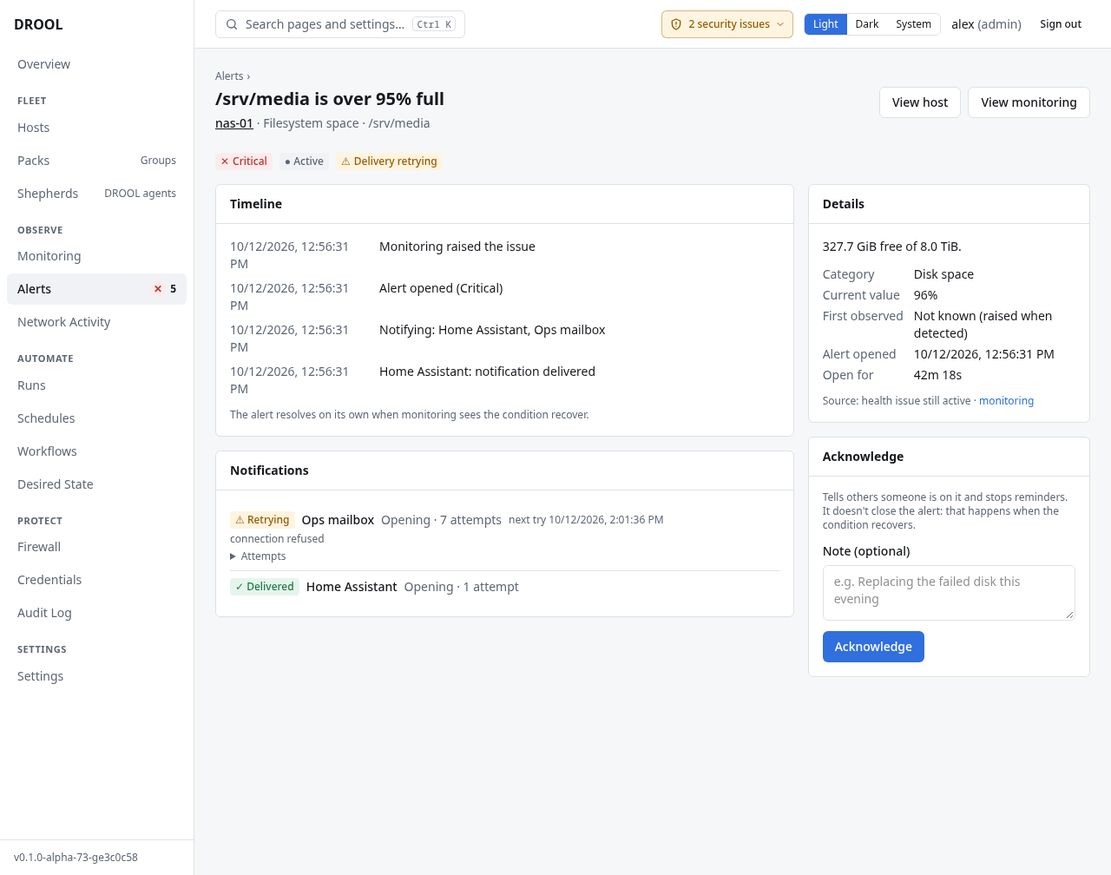
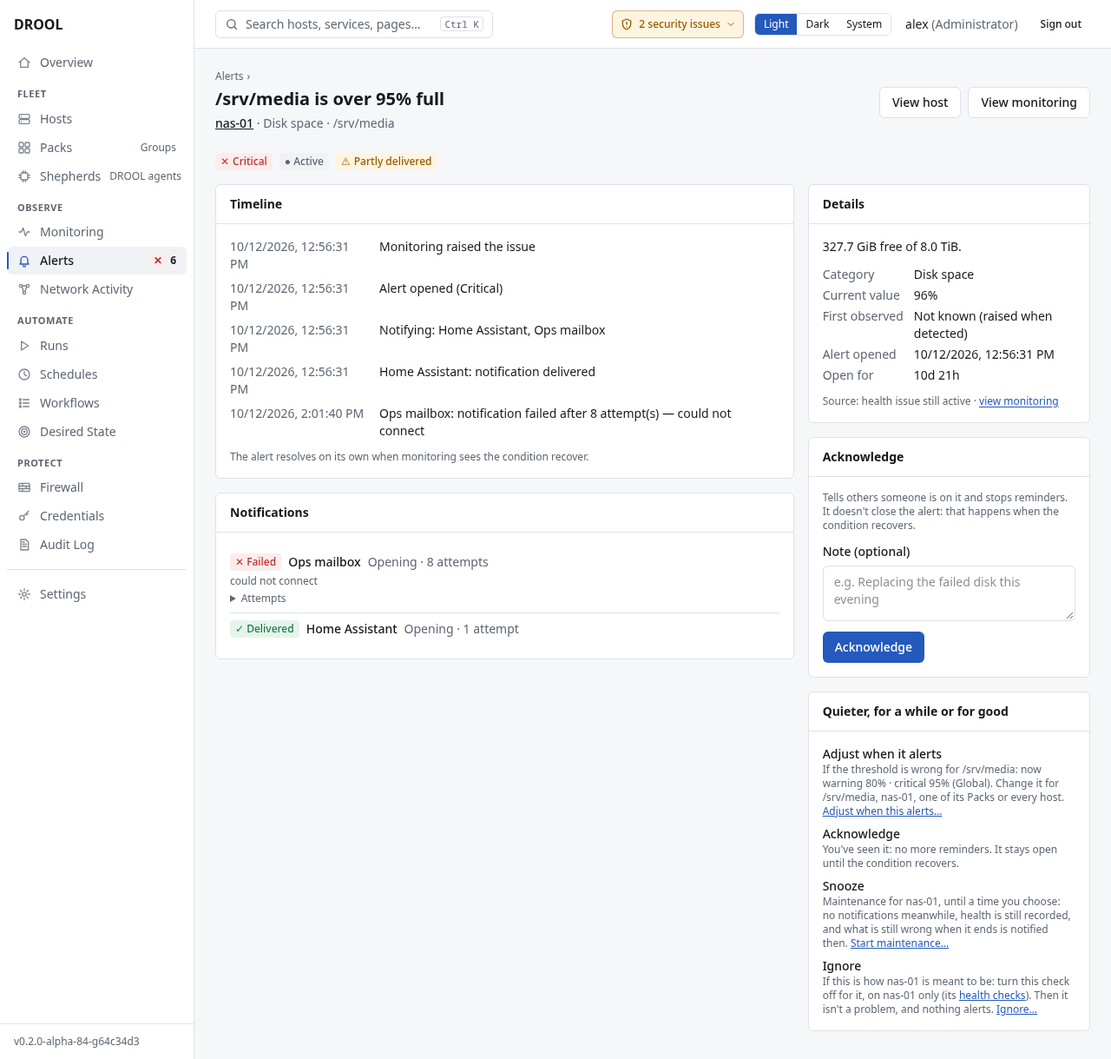
Docs: Phase 2 as built, measured and verified (ARCHITECTURE-ALPHA §47); the guide's screenshots retaken
- ARCHITECTURE-ALPHA §47: what Phase 2 changed (monitoring, Packs,
  dashboards and status, settings and words), what is recorded for Phase
  3, the workflows counted before and after from the capture records
  (W12a 7→5, W12d 11→5, W12e 7→4, W12f 11→6 with no priority to type,
  W14b 3→1; W13b 3→5 and W15 3→5 on purpose; W12b 7→7), the tests and
  the final verification, and what is still open.
- DESIGN-STANDARD §8: a page's rare destructive actions are in its
  Danger zone; a consequential choice is saved by a button that names it,
  never by a select's change.
- User guide: 18 screenshots retaken on the Phase 2 build (light,
  1280 px; Users at 1440) with their descriptions: the Overview (2),
  Packs (4), Monitoring (4), alerts (3), Users, the settings directory,
  maintenance, a Shepherd host's Management, and a host's Overview, now
  media-01's (host-page-media-01.png replaces host-page-web-01.png: web-01
  is off in the evidence lab). Removing a Host, Shepherd PKI and Host
  Details: Uninstall and Revoke are in the Danger zone, and the revoke
  button says Revoke identity. Two links to an anchor 35e0ec0 renamed.
  Not retaken (they need the docs lab's VMs, listed in §47.9): the first
  host page, and the host monitoring tabs' row.

Checks: the guide's link, anchor and image checker (162 pages). The
wiki is not published.

diff --git a/ARCHITECTURE-ALPHA.md b/ARCHITECTURE-ALPHA.md
@@ -4929,3 +4929,207 @@ The review of Phase 1 approved its direction and asked for six corrections, each
 - **Alerts browser test, a different failure seen once**: in one of 13 runs of the alerts file during the
   investigation, the first test's setup got a `GET /hosts` answer without `items` 2.4 s after signing in. It didn't
   recur with a debug log in place (the next 10 runs passed), so its cause isn't known.
+
+## 47. 1.0 usability refinement, Phase 2: organisation and clarity (2026-10-23)
+
+The second phase (*Simple by default. Powerful by choice.*), after Phase 1 was approved and pushed (5fb6b7a, CI green).
+It works on the workflows across monitoring, Packs, the dashboards and the settings: fewer steps where DROOL can
+decide, one owner for each setting, honest states, and actions next to what they act on. Thresholds, inheritance,
+provenance, conflict resolution and every advanced setting are kept; no new engine, page framework or roadmap feature.
+The before evidence was captured on 5fb6b7a; the after evidence on the Phase 2 build, with the same lab preparation and
+the same counting (§47.6).
+
+Found on the way and fixed first (f0725c2): the Hosts list's search field was fed back from the address, so under load
+it lost keystrokes (the navigation browser test caught it); typing is now the field's own state, written to the address.
+
+### 47.1 Monitoring (35e0ec0)
+
+- **From an alert to its rule.** *Adjust when this alerts…* (an alert's panel and its page) shows the rule that fired
+  and where its values come from (*Disk space for /srv/media: warning 85% · critical 95%, from Recommended*), the
+  scopes it can be changed for (the device or service, every one of its kind on the host, each of the host's Packs,
+  every host) with what each sets now, and the ordinary editor and impact preview in place. The narrowest scope is
+  chosen; a scope the role can't change is greyed.
+- **The editor.** Typing a value sets it; an empty field inherits and says from where. No *Custom* box first. When a
+  condition clears is under *More options*.
+- **No stacked dialogs.** A Pack's, a device's or a service's checks open their editor as a step of the same dialog,
+  with Back (`Dialog` `onBack`/`step`: Escape goes back, focus moves into each step and returns to its opener).
+- **Packs that disagree** are said on a host's Health checks (which value, which Packs with what, what applies
+  meanwhile), with *Let <Pack> win…*: its monitoring priority goes one above the other's, after a preview.
+- **Monitoring → Health checks** has the checks on the page; collection, history, the Shepherd budget, SSH polling and
+  helpers are under *Advanced* (`?advanced=1`), saved by *Save collection settings*. Stopping monitoring for every host
+  and resetting a Pack's setting ask first.
+- The fleet's health issues come before the table, each linking to where its subject is shown.
+- One name for each thing: *Health checks* (every threshold editor), *Disk space* (fullness) and *Storage health*
+  (the disks).
+
+### 47.2 Packs (aeaa38f)
+
+- The Packs list is for finding a Pack: its hosts and how they are. Its editors and its red Delete are gone.
+- A Pack's page: *Run on this Pack* and *Install updates…* in the header; *Actions* with *Start maintenance…* and,
+  separated and last, *Delete Pack…*. The Hosts card has each host's health, connection and updates, and *Add hosts…*.
+- *What this Pack sets for its hosts*: health checks, monitoring priority (its owner now; the global list is read
+  only), baselines and Desired State priority, firewall rules and rollback timeout, helper approvals, and what
+  targets it, each linking to where it's changed.
+- *Where another Pack decides* (`GET /groups/{id}/conflicts`): for each member host, the health check fields where
+  Packs of equal priority disagree or a higher one wins, and Desired State conflicts, in words with what applies
+  instead.
+- *Add hosts…* says what the hosts get from the Pack before they join.
+- Migration 0028: creating or renaming a Pack counts as a change to the health configuration (a new empty Pack
+  couldn't load its health checks).
+
+### 47.3 Dashboards and status (3d363d5)
+
+The Overview and a host's Overview answer what is working, what needs attention, why, and what to do, from the
+server's verdicts.
+
+- **Needs attention lists what is failing or waiting for a decision**, each thing once, most serious first:
+  - a host DROOL can't reach, with *Test connection…* (its *No monitoring data* alert folded into that row);
+  - open alerts by their own titles, with since when, and for a service its fix (*Start jellyfin.service…*,
+    `alerts/AlertLine.tsx`, the reviewed `ServiceActionsDialog`);
+  - paused runs, Desired State, the firewall, failing notifications;
+  - acknowledged alerts and alerts under maintenance counted under the list (suppressed ones are no longer listed
+    as needing attention: `suppressed=false`).
+  Its empty state is *Nothing is failing or waiting for a decision* (DESIGN-STANDARD §3, §8).
+- **The UI no longer judges disk space.** `attentionReasons` marked any filesystem at 90 % or more as *full* and red,
+  ignoring the configured thresholds: a host at 91 % showed ✕ while the server said Warning, and one at 96 % that the
+  server called Critical could be missing. It is now `connectionReasons` (host key, sign-in, reachability, age of
+  the status); disk space shows as monitoring's own alert.
+- **Duplicates removed.** Security updates and reboots were attention rows and the Updates card; they are the
+  Updates card's (*Install updates…*, and *Reboot…* next to the hosts that need it). The Overview's Alerts card
+  (the same alerts as the list) and its Security card (the same as the header's indicator) are gone. On a host's
+  Overview its alerts were in Needs attention as a count and again in an Alerts card: now once, by title, and
+  *Start maintenance…* is in the host's Actions; *Install updates…* is offered in the header and next to the count.
+- **Honest numbers.** Totals count only hosts that report now and say how many don't; a host list shows an offline
+  or stale host's updates and reboot as *last known*, *unknown* or *not checked yet*, never a bare 0 or a blank;
+  the Health column says loading, couldn't load or unknown. The Hosts tile puts the colour on the problem (*1 offline*,
+  *All 7 online*); the Desired State tile names its units. A host's Network tile shows *not in policy* and *would be
+  denied* as information while DROOL doesn't filter the host.
+- Runs on the Overview: in progress, paused, and failed in the last day.
+
+### 47.4 Settings, navigation and terminology (64c34d3, e0a4a06, 85b644c)
+
+- **Users.** The role select saved on change, so an arrow key changed someone's role. *Change role…* shows the four
+  roles with what each may do and the current one; the button names the change (*Make sam a viewer*); it applies at
+  once, to sessions and API tokens, as it says. The rest is under *More*: *Set password…*, *Reset two-factor…*,
+  *Disable…* (now confirmed, saying what it does) or *Enable*, and *Delete user…* last. Your own row links to your
+  account instead (the server already refused self-disable, -demotion and -deletion). Roles are shown by name
+  (`auth/roles.ts`), also in the header.
+- **Destructive actions in their place.** A host's Shepherd *Uninstall…* and *Revoke identity…* were two filled red
+  buttons on its card; they are in the host's Danger zone with *Remove host…*, each with a line saying what it does.
+  *Check again* after an uninstall isn't styled as danger. Revoking an enrollment token and removing a helper
+  approval ask first.
+- **Words.** *Pack* as the product term in buttons and text (*Create Pack*, *Delete Pack…*); *monitoring priority*
+  where a priority is set from monitoring; *Audit Log* everywhere; *Shepherd endpoint*, and *Shepherd* in the
+  search's descriptions; the firewall's link to Network Activity named after it; one name for adding a host with a
+  Shepherd (it was also *New token*); *Desired State priority* (the dialog said *Desired-state priority*).
+- **Finding things.** Search finds both certificate authorities (the Shepherds' and DROOL's SSH one). The header's
+  user name opens Account; the phone's account menu has *All settings*. The Settings description is on the
+  directory only. Tab rows that scroll sideways fade at the edge with more and keep the current tab in view
+  (`ui/scrollCue.ts`).
+- A host's devices and services say *Customize…* / *Edit…* like the checks above them (e0a4a06), and the contrast
+  test checks the health checks and their editor again: since 35e0ec0 it had skipped them without failing.
+- DESIGN-STANDARD: §3 says what Needs attention lists; §8 that a page's rare destructive actions are in its Danger
+  zone, and that a consequential choice is saved by a button that names it, never by a select's change; §5 and §7 (in
+  35e0ec0) dialog steps and the terms Health checks, Disk space, Storage health, Monitoring priority.
+
+### 47.5 Recorded for Phase 3
+
+Found while reviewing the other areas; not changed in Phase 2:
+- Credentials page layout; bulk host actions split between Hosts and Monitoring (*Convert to Shepherd* and *Install
+  helpers* only on the Monitoring table); adding a host with a Shepherd is reached only from Shepherds.
+- Desired State: buttons inside links (BaselinesPage, DesiredOverviewPage, BaselineDetailPage, BaselineEditorPage),
+  *Check now* before *Restore*; a baseline's automatic restore resumed from two places.
+- The Alerts page's hand-rolled tab list; recurring maintenance windows highlighted as Schedules while their crumbs
+  say Alerts; Files' *Upload* after *New folder*; one-off link classes in the workflow editor; a Network pointer
+  that isn't a link; the firewall's *Transactions* wording.
+- Permission keys in eleven notes (*needs monitoring.manage*) instead of what the role can't do.
+- Server-written text still says *pack* (provenance and conflict labels, schedule and maintenance targets,
+  classifications, audit details): changing it touches notifications, audit and many tests.
+- Long server alert titles (a SMART alert's counters; *No monitoring data since <UTC time>*).
+- The Shepherd budget's fleet default is under Monitoring, its per-host value under Collection & helpers, nothing
+  from Shepherds.
+
+### 47.6 Measurements
+
+Before: the package captured on 5fb6b7a (the approved Phase 1 build), W05 from the 2026-10-21 package. After: the
+Phase 2 build 64c34d3, the same lab rebuilt (`uxr-reset-p1.sh`) and the same preparation before each workflow
+(`uxr-p2lib.mjs`). Counted from the capture records by `uxr-compare-p2.py`, the same way as §46.6: interactions are
+clicks or taps, typing into one field, a choice in a list, a key; pages are routes with their tab; dialogs are
+counted by title (a dialog whose step changes its title counts twice, so the after column can only look worse).
+
+| Workflow | Interactions | Pages | Dialogs | Decisions | Manual |
+|---|---|---|---|---|---|
+| W12a a threshold for every host | 7 → 5 | 3 → 3 | 1 → 1 | 0 → 0 | 0 → 0 |
+| W12b a threshold for one Pack | 7 → 7 | 2 → 3 | 2 → 2 | 0 → 0 | 0 → 0 |
+| W12c a threshold for one host | 8 → 7 | 5 → 5 | 1 → 1 | 0 → 0 | 0 → 0 |
+| W12d from an alert, for one filesystem | 11 → 5 | 3 → 1 | 3 → 2 | 0 → 0 | 0 → 0 |
+| W12e from an alert, for its host | 7 → 4 | 4 → 2 | 1 → 1 | 0 → 0 | 0 → 0 |
+| W12f why a host gets a value; settle a Pack conflict | 11 → 6 | 7 → 5 | 1 → 1 | 1 → 1 | 1 → 0 |
+| W13a add a host to a Pack, see what it gets | 7 → 5 | 3 → 3 | 2 → 1 | 0 → 0 | 0 → 0 |
+| W13b delete an unused Pack | 3 → 5 | 2 → 3 | 1 → 1 | 0 → 0 | 0 → 0 |
+| W14a Overview → unreachable host → connection test | 2 → 1 | 2 → 1 | 1 → 1 | 0 → 0 | 0 → 0 |
+| W14b Overview → disk problem → the rule that fired | 3 → 1 | 4 → 2 | 0 → 0 | 0 → 0 | 0 → 0 |
+| W15 change a user's role | 3 → 5 | 3 → 3 | 0 → 1 | 0 → 0 | 0 → 0 |
+| W05 watch a service, notify, a threshold | 20 → 18 | 10 → 9 | 3 → 3 | 1 → 1 | 1 → 1 |
+
+What makes the difference, and what doesn't:
+- Typing a value sets it (no *Custom* box first): one interaction per field in W12a, W12c, W05, two in W12d.
+- From an alert, the rule that fired and its scopes in place (W12d, W12e), and the rule with its source on the alert's
+  page (W14b). The narrowest scope is chosen by DROOL; the person can choose another.
+- A Pack conflict said on the host, settled by *Let <Pack> win…* with the priority proposed and previewed (W12f): the
+  priority number the person had to choose and type is gone; which Pack should win is still their decision.
+- What a Pack gives, shown before a host joins (W13a); *Test connection…* on the Overview's row (W14a).
+- **More, on purpose:** W13b (Delete is on the Pack's page under *Actions*, no longer a red button on every card) and
+  W15 (the role list saved on any change, an arrow key included; *Change role…* is a decision with its consequences).
+  **The same:** W12b, where the Pack's checks moved from the list to the Pack's page (one owner); the editor is now a
+  step with Back instead of a second dialog on top.
+- Nothing was hidden to save a step: every setting the before runs used is still where the workflow reaches it.
+
+Evidence package: `scratchpad/drool-ux-phase2-2026-10-23` (workflows in dark at 1440 px; the changed screens in dark
+and light at 1440 px and on a phone in both themes; COMPARISON.md with every counted step).
+
+### 47.7 User guide
+
+Text updated with each change (Monitoring Settings, Health Overrides, Understanding Alerts, Fleet and Host Monitoring,
+Packs, Conflicts, Host Details, First Login, System Updates, Users and Roles, Removing a Host, Shepherd PKI and
+smaller pages). Screenshots retaken on the Phase 2 build where the lab reproduces the guide's example (light, 1280 px):
+the Overview (2), Packs (4), Monitoring (4), alerts (3), Users, the settings directory, maintenance, a Shepherd host's
+Management, and a host's Overview, now media-01's (`host-page-media-01.png`: web-01 is off in this lab). Two
+anchors that 35e0ec0 renamed were fixed. The wiki isn't published (frozen until 1.0).
+
+### 47.8 Tests and checks
+
+- Go: `TestPackConflicts` (a conflict for both Packs, outranked after a priority change, a host's own setting not
+  listed, a Desired State conflict, 404) and `TestNewEmptyPackHasHealthChecks` (fails without migration 0028).
+- Web unit (163, from 150): Pack conflicts on a host, the rule in one line, alert and issue links (6); a host's
+  connection reasons never judge disk space, and list cells are never a bare 0 or blank (6); search finds both
+  certificate authorities (1).
+- Browser: `monitoring-rules` (new: from an alert's panel to one filesystem, from its page for every host with the
+  impact first, a Pack conflict settled by *Let … win*); `phase2-ui` (new: the Users role change, and the changed
+  screens at 1440, 1280, 1024 and 390 px in both themes for sideways scroll, clipping, controls out of the window, 44
+  px touch targets, contrast and focus); `operations` (new: the alert by its title with *Start backup.service…* on the
+  Overview and the host, once); `packs`, `health`, `monitoring`, `navigation`, `alerts`, `accessibility`, `desired`,
+  `reauth-dialog`, `shepherd-endpoint` and `contrast` updated for the moved controls and words.
+- Found by the new layout test and fixed: link-styled actions in attention rows were 20 px touch targets; a monitoring
+  tile's detail was cut off at 1024 px; a host's Packs *Change…* was 16 px on touch.
+- Found by the first full run of the verification and fixed (85b644c): `phase2-ui` and `monitoring-rules` assumed
+  nas-01's /srv/media alert was unacknowledged, while the alerts file acknowledges it earlier in the suite (their
+  setups timed out, 12 failures); `desired` changed a Pack's priority on the Packs list, where aeaa38f removed it. The
+  application was not at fault in either. The contrast test had skipped the health checks' editor since 35e0ec0 without
+  failing (e0a4a06).
+- Final verification (the release-key test edits set aside, then restored and checksummed): on e0a4a06, gofmt, `go
+  vet ./...` and `go vet -tags integration` clean, `go test ./...` 51 packages, `make test-race` 51 packages and
+  `TestOfficialShepherdUpdates`; on 85b644c (no Go change since), web typecheck, 163 unit tests and build, and
+  TestBrowser 141 of 141.
+
+### 47.9 Still open
+
+- **PiZeroWopenwx** (§46.7): the saved SSH rule on the real host is still not verified.
+- **Alerts browser test, `/hosts` without items** (§46.7): seen once, not reproduced.
+- **TestBrowser setup, host-key scan reset**: once, the harness's host-key scan of a test container got *connection
+  reset* (the container's sshd not ready yet); no test had started, and the next run passed.
+- **User guide screenshots**: Your First Host's `first-host-page.png` (backup-01 right after it was added) still shows
+  the host's former Alerts card and wording; the host monitoring tabs' screenshots (Metrics, Storage health, Sensors &
+  GPU, Services, Collection) show the earlier tab row. They need the docs lab's VMs (backup-01, web-01): to retake in
+  the final documentation pass before 1.0.
+- Phase 3 (§47.5) and the final end-to-end acceptance remain before 1.0.

diff --git a/docs/wiki/Host-Details.md b/docs/wiki/Host-Details.md
@@ -6,7 +6,7 @@ section, the **Overview**, is a summary built to answer three questions in order
 attention?*, *is this host okay?*, and *what happened lately?*. Every summary links to the section
 with the details.
 
-![web-01's Overview: the header (web-01; Ubuntu 24.04.5 LTS, 10.10.40.21, managed via SSH; Connection Ready, Last check online, Health Degraded · 1 issue, 1 open alert) with Run command, Install updates and Actions; the sections Overview, Monitoring, Files, Network, Firewall, Desired State, Management and Activity; Needs attention (/ 91% full, the open alert, 2 drifted resources); Health now with its tiles; the Alerts card; the Desired State, Firewall, Network and Files summaries; Recent runs, Recent events and the System card](images/host-page-web-01.png)
+![media-01's Overview: the header (media-01; Debian GNU/Linux 12, 10.10.20.15, managed via Shepherd with SSH fallback; Connection Ready, Last check online, Health Healthy · 1 notice) with Run command, Install updates… and Actions; the sections Overview, Monitoring, Files, Network, Firewall, Desired State, Management and Activity; Needs attention (Desired State: 2 drifted); Health now with its tiles, then Updates (6 pending, 6 security, with Install updates…), Reboot, the last status check and uptime; the Desired State, Firewall, Network and Files summaries; Recent runs, Recent events and the System card](images/host-page-media-01.png)
 
 ## The top of the page
 
@@ -83,9 +83,9 @@ The **Management** section has **Edit host details** at the top, and these cards
 |---|---|
 | **Connection** | SSH or Shepherd, the fallback, what DROOL uses right now (*Operations now*); **Test connection**, and the buttons that switch between SSH and the Shepherd |
 | **SSH access** | The SSH user and address, credential, sudo setting (*Privilege*), jump host (*Connect through*), trusted host key, last test, and how DROOL signs in, with **Set up a dedicated DROOL SSH account…** and the SSH certificate buttons |
-| **Shepherd (DROOL agent)** | Whether the host has a Shepherd, its version, state and certificate; buttons to install, update, uninstall or revoke it |
+| **Shepherd (DROOL agent)** | Whether the host has a Shepherd, its version, state and certificate; buttons to install or update it |
 | **Membership** | Packs (each links to its page; **Change…** adds the host to Packs or removes it), tags, description |
-| **Danger zone** | **Remove host…** (also under **Actions**) ([Removing a Host](Removing-a-Host.md)) |
+| **Danger zone** | **Uninstall Shepherd…** and **Revoke Shepherd identity…** for a host with a Shepherd ([Removing a Host](Removing-a-Host.md#uninstalling-a-shepherd), [Shepherd PKI](Shepherd-PKI.md#revoking-a-shepherd)), and **Remove host…** (also under **Actions**) ([Removing a Host](Removing-a-Host.md)), each with a line saying what it does |
 
 A Shepherd host's **Shepherd (DROOL agent)** card also has **Shepherd details**: its protocol,
 identity, certificate, trust manifest, when it was last seen and from where, and **What DROOL may do

diff --git a/docs/wiki/Packs.md b/docs/wiki/Packs.md
@@ -27,7 +27,7 @@ A host can be in several Packs. Membership is looked up when it's used: a host y
    Names can contain letters, digits, `.`, `_` and `-`, and must start with a letter or digit: no
    spaces. (`media-servers` works, `Media Servers` doesn't.)
 
-   ![The "Create a pack" dialog: name media-servers, description "Jellyfin servers and the file server", a note that hosts are added on the pack's page, now or later, and the Create button](images/pack-create.png)
+   ![The "Create a Pack" dialog: name media-servers, description "Jellyfin servers and the file server", a note that hosts are added on the Pack's page, now or later, and the Create button](images/pack-create.png)
 
 3. DROOL opens the new Pack's page. It has no hosts yet:
 
@@ -48,7 +48,7 @@ On the Pack's page:
    health checks the Pack sets, its monitored services, its Desired State baselines, the firewall
    rules that name it, and the schedules, maintenance and routes that include its hosts.
 
-   ![The "Add hosts to media-servers" dialog with database-01, gpu-01, media-01, media-02, nas-01 and web-01; media-01, media-02 and nas-01 ticked, and the Add 3 hosts button](images/pack-add-hosts.png)
+   ![The "Add hosts to media-servers" dialog with backup-01, database-01, gpu-01, media-01, media-02, nas-01 and web-01; media-01, media-02 and nas-01 ticked; what they get from media-servers (no health checks of its own, its two baselines, two firewall rules naming it, and the schedules, notification route and classification that include it); and the Add 3 hosts button](images/pack-add-hosts.png)
 
 The Pack's page then lists its hosts:
 

diff --git a/docs/wiki/Removing-a-Host.md b/docs/wiki/Removing-a-Host.md
@@ -108,7 +108,7 @@ Either way:
 ## Uninstalling a Shepherd
 
 To stop using a Shepherd on a host, you don't need to remove the host. In its **Management**
-section, on the **Shepherd (DROOL agent)** card, click **Uninstall Shepherd…** (**agents.manage** and
+section, under **Danger zone**, click **Uninstall Shepherd…** (**agents.manage** and
 **hosts.write**: administrators; DROOL asks for your password again). The dialog says how it will
 go and what it removes.
 
@@ -167,9 +167,9 @@ sudo rm -f /etc/drool/agent.yaml
 This stops the Shepherd, removes its service, its programs, its identity (the private key it used to
 prove itself to DROOL), its log and its settings. On a host without systemd (a container), the
 Shepherd runs under a small supervisor script instead; stop that process, then delete the same
-folders. Then **Forget the Shepherd** (or **Revoke Shepherd identity**) on the host's **Shepherd
-(DROOL agent)** card, under **Management**, so it can't connect again even if a copy of its identity
-survived.
+folders. Then, in the host's **Management** section under **Danger zone**, **Uninstall Shepherd…**
+offers **Forget the Shepherd** (or use **Revoke Shepherd identity…**), so it can't connect again even
+if a copy of its identity survived.
 
 The same commands check a self-removal that DROOL reported as *initiated*: once it's done, none of
 these files exist (`ls /usr/libexec/drool-agent /var/lib/drool-agent` finds nothing).

diff --git a/docs/wiki/Host-Monitoring.md b/docs/wiki/Host-Monitoring.md
@@ -11,7 +11,7 @@ Everyone can view it (**monitoring.read**). Buttons that change something say wh
 
 ## The page
 
-![nas-01's Monitoring section, Summary tab, under the host's header and its notices: continuous Shepherd monitoring every 10 s, tiles for CPU, memory, storage (96% /srv/media), temperature, network, services (3/3 monitored as expected; 1 failed, not monitored), storage devices and active health issues, the active health issues, the range buttons and the CPU and memory charts](images/monitoring-host-overview.png)
+![nas-01's Monitoring section, Summary tab, under the host's header and its notices: continuous Shepherd monitoring every 10 s; the tabs Summary, Metrics, Services, Storage health, Sensors & GPU, Health checks and Collection & helpers; tiles for CPU, memory, disk space (96%, fullest /srv/media), temperature, network, services (3/3 monitored as expected; 1 failed, not monitored), storage health and active health issues; the active health issues, each linking to where it shows; the range buttons and the CPU and memory charts](images/monitoring-host-overview.png)
 
 - **The title line** says how the host is monitored and how fresh the data is: *Continuous: the
   Shepherd samples every 10 s · updated just now*, or *Polled over SSH every 5 min (not continuous)*.

diff --git a/docs/wiki/Fleet-Monitoring.md b/docs/wiki/Fleet-Monitoring.md
@@ -14,7 +14,7 @@ Everyone who can sign in can see monitoring (**monitoring.read**). The buttons t
 
 ## The page
 
-![The Monitoring page: 7 of 7 hosts reporting (5 with a Shepherd, 2 over SSH), the alert counts and the host in maintenance; the common filters (All hosts, Needs attention, Unreachable / stale, CPU, Low disk space, Storage health, Service failures, Reduced fidelity, Missing helpers, each with its count) and More filters; a host search and sort; the host table with health, alerts, monitoring method, CPU, memory, disk, temperature, services and storage devices; and the active health issues](images/monitoring-fleet.png)
+![The Monitoring page: 7 of 7 hosts reporting (5 with a Shepherd, 2 over SSH) and the alert counts; Health issues now (7), most serious first, each with its host, what is wrong and since when, the notices about collection folded away; then the common filters (All hosts, Needs attention, Unreachable / stale, CPU, Low disk space, Storage health, Reduced fidelity, Missing helpers, each with its count) and More filters; a host search and sort; and each host's health, alerts, monitoring method, CPU, memory, disk space, temperature, services and storage health](images/monitoring-fleet.png)
 
 From the top:
 

diff --git a/DESIGN-STANDARD.md b/DESIGN-STANDARD.md
@@ -313,7 +313,11 @@ How to write UI text:
   applies the policy and switches the host. A saved rule the compiler puts on no host says so where it is written,
   saved and reviewed: valid isn't the same as in effect.
 - **Previews say they change nothing.** The button that executes names what it does (§5).
-- **Destructive actions** use danger styling, are confirmed, and come last in menus.
+- **Destructive actions** use danger styling, are confirmed, and come last in menus. On a page, the rare ones (remove,
+  uninstall, revoke) are in its **Danger zone** card at the end, each with a line saying what it does, never beside
+  everyday actions.
+- **A consequential choice is saved by a button that names it**, never by a select's change: an arrow key changes a
+  select. A role, for example, changes in *Change role…*, whose button says *Make sam a viewer*.
 - **The UI never weakens a server check.** It can explain a refusal (a busy host, a missing permission, a blocked
   management path), but the server decides.
 - **Secrets** are never shown again after they are entered, and never logged. Copy buttons are only for public material

diff --git a/docs/wiki/Home.md b/docs/wiki/Home.md
@@ -10,7 +10,7 @@ at the top of _Sidebar.md (RELEASING.md lists this step). -->
 office, a club's servers. You install it once, open it in a browser, and from there you can see how
 every machine is doing and change things on them, safely and with a record of who did what.
 
-![DROOL's Overview for the example network: 6 hosts, 2 open alerts (1 critical, 1 warning, acknowledged), 4 hosts drifted from their Desired State, the firewall in sync; what needs attention, the latest alerts and runs, updates and reboots (a failed systemd unit as a fact: only monitored services alert), security advice and recent events](images/overview-fleet.png)
+![DROOL's Overview for the example network: 3 of 7 hosts offline, 7 open alerts (1 critical, 6 warning, 1 acknowledged), 2 hosts drifted from their Desired State, the firewall in sync; Needs attention (the offline hosts with Test connection…, the open alerts by their own titles, the hosts waiting for host-key approval, drift and a failing notification destination), Updates and reboots with Install updates…, Runs and Recent events](images/overview-fleet.png)
 
 ## What it can do
 

diff --git a/docs/wiki/Installing-a-Shepherd.md b/docs/wiki/Installing-a-Shepherd.md
@@ -73,7 +73,7 @@ SSH.
 
 Afterwards the host's **Management** section looks like this:
 
-![media-01's Management section: Connection (managed via Shepherd, connected, SSH as fallback only while the agent is unreachable, operations through the Shepherd; Test connection, Turn off SSH fallback, Manage over SSH only); the Shepherd card (its version, compatible, connected, the certificate's expiry, Shepherd details, Uninstall Shepherd… and Revoke Shepherd identity); SSH access; Membership; and the Danger zone](images/host-management-shepherd.png)
+![media-01's Management section: Connection (managed via Shepherd, connected, SSH as fallback only while the agent is unreachable, operations through the Shepherd; Test connection, Turn off SSH fallback, Manage over SSH only); the Shepherd card (its version, on DROOL's version, connected, the certificate's expiry, Shepherd details); SSH access; Membership; and the Danger zone with Uninstall Shepherd…, Revoke Shepherd identity… and Remove host…, each with a line saying what it does](images/host-management-shepherd.png)
 
 ## A host that DROOL can't reach over SSH
 

diff --git a/docs/wiki/Acknowledging-an-Alert.md b/docs/wiki/Acknowledging-an-Alert.md
@@ -32,7 +32,7 @@ From the list:
 3. Optionally write a **Note** for the others (up to 500 characters), for example *Replacing the failed
    disk this evening*, and click **Acknowledge**.
 
-![The panel beside the Alerts list for "jellyfin.service failed" on media-01: critical, active, since when, notification partly delivered, and what failed (the unit, expected to run, failed); Deal with it: Acknowledge…, Snooze… and Ignore…, each with what it does; Look further: View host media-01, View jellyfin.service and Open the alert](images/alert-quick-actions.png)
+![The panel beside the Alerts list for "jellyfin.service failed" on media-01: critical, active, since when, delivery retrying, and what failed (the unit, expected to run, failed); Deal with it: Start jellyfin.service…, Acknowledge…, Adjust when this alerts… (now: for 1 min, Recommended), Snooze… and Ignore…, each with what it does; Look further: View host media-01, View jellyfin.service and Open the alert](images/alert-quick-actions.png)
 
 Or from the alert's page:
 

diff --git a/docs/wiki/Users-and-Roles.md b/docs/wiki/Users-and-Roles.md
@@ -28,7 +28,7 @@ Managing users needs **users.manage** (administrators), and you'll be asked to
 Tell them the initial password through a safe channel. They can change it under **Settings → Account →
 Change password**, and should turn on [two-factor authentication](Two-Factor-Authentication.md).
 
-![Settings → Users: the Add user form, and the users alex (admin, you), jordan (viewer) and sam (operator) with their role, status, two-factor state and last login, Set password… for the others, the Disable and Delete buttons, and where to change your own password or recover a locked-out installation](images/users.png)
+![Settings → Users: the Add user form with the role's description under it, and the users alex (Administrator, you), jordan (Viewer) and sam (Operator) with their role, status, two-factor state and last login; Change role… and More for the others, Your account on your own row, and where to change your own password or recover a locked-out installation](images/users.png)
 
 ## Change someone's account
 

diff --git a/docs/wiki/Monitoring-Settings.md b/docs/wiki/Monitoring-Settings.md
@@ -4,7 +4,7 @@
 **Advanced** are how often hosts are observed, how long history is kept, the Shepherd resource budget
 and which helper tools DROOL may install. Most installations never need to change anything here.
 
-![Monitoring → Health checks: the health checks for every host with the Recommended profile and the inheritance chain Recommended → Global → Pack → Host → Device, the services watched on every host, the settings of Packs, hosts and devices, and Advanced](images/monitoring-settings.png)
+![Monitoring → Health checks: the health checks for every host (the Recommended profile, with Disk space changed for every host) and the inheritance chain Recommended → Global → Pack → Host → Device, each check with its value, source and Customize… or Edit… and Reset; below, the services watched on every host, the settings of Packs, hosts and devices, and Advanced](images/monitoring-settings.png)
 
 ## Before you start
 
